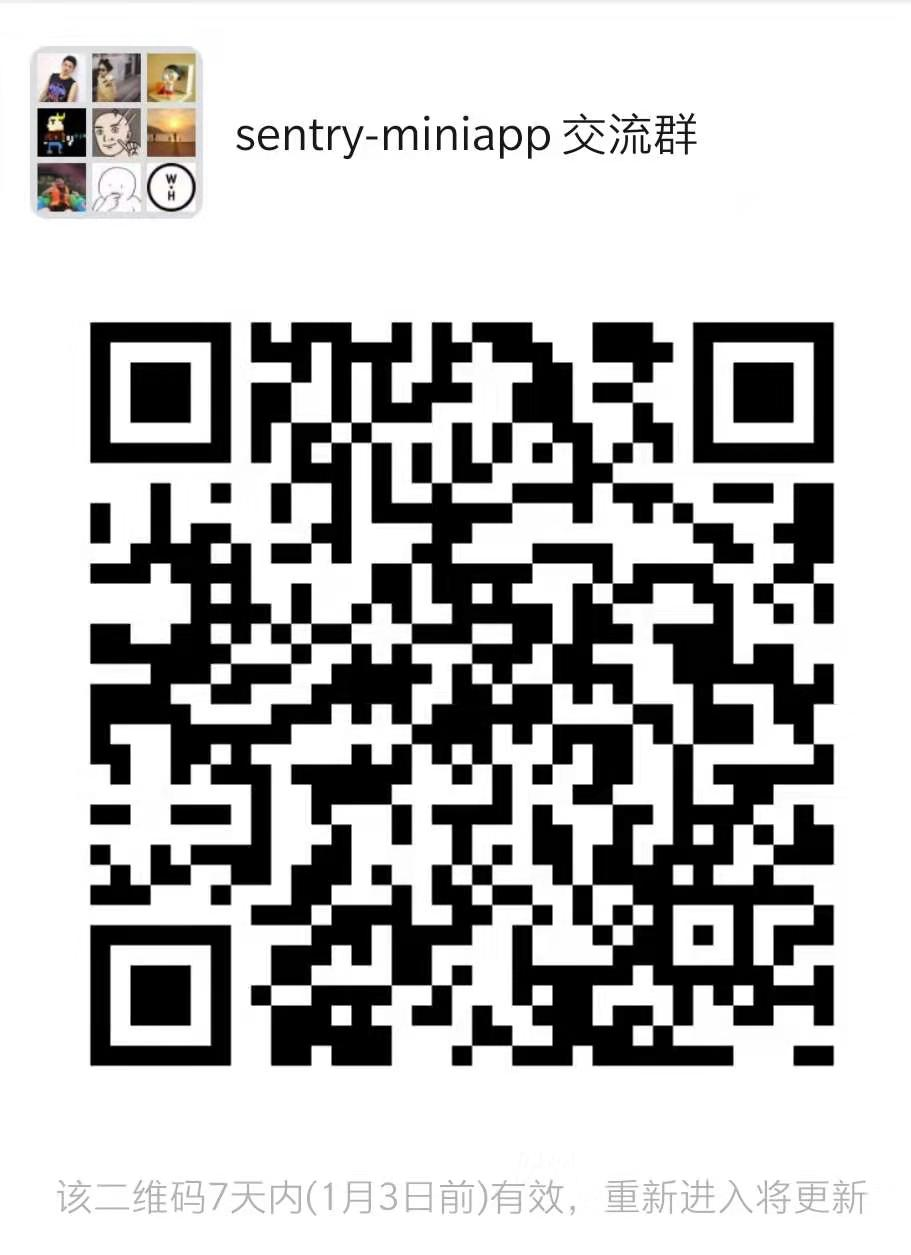
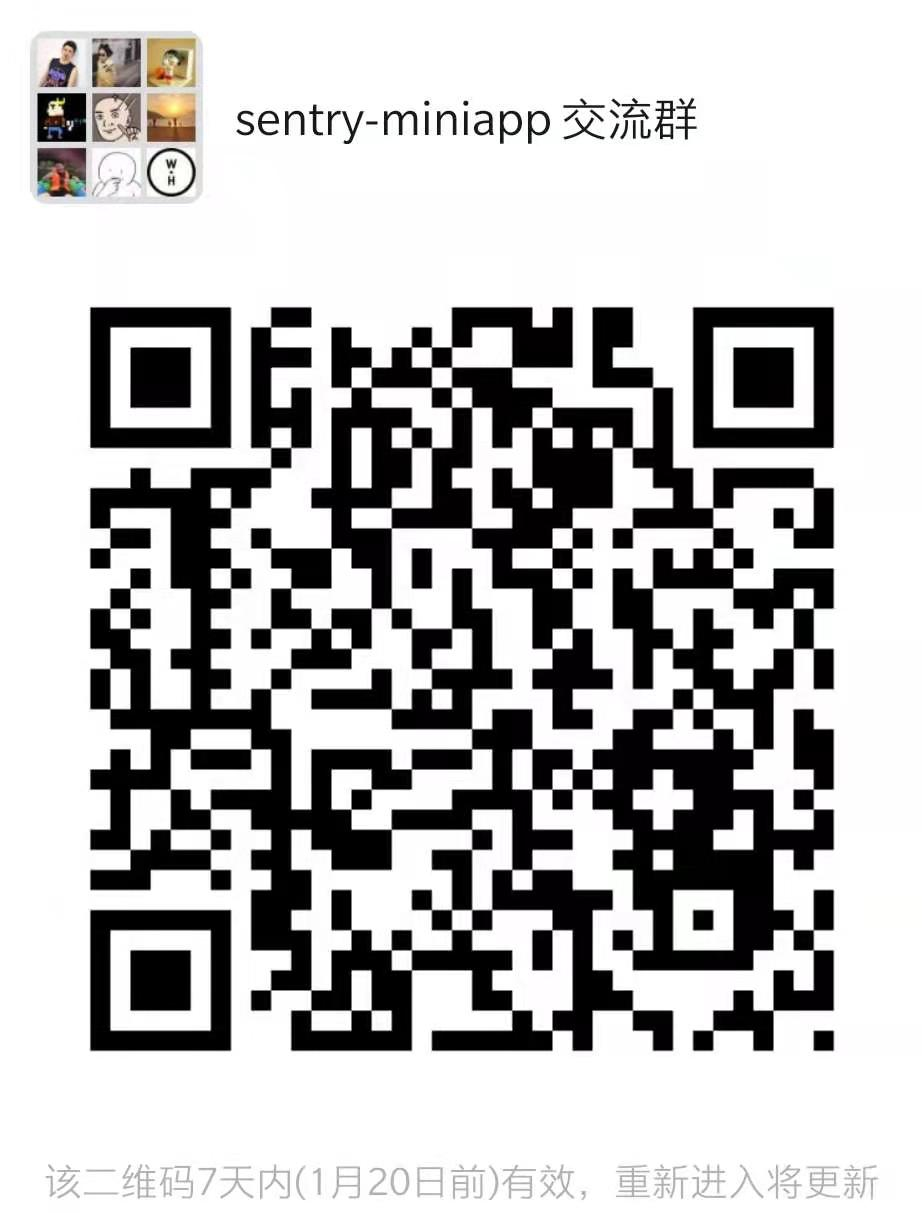
docs: update qrcode

diff --git a/examples/weapp/app.js b/examples/weapp/app.js
@@ -74,10 +74,13 @@ App({
       }
     });
 
+    const systemInfo = wx.getSystemInfoSync();
+    console.log(systemInfo);
+
     // Sentry.captureException(new Error('test'));
 
     // 测试 异常是否可以上报
-    // throw new Error("this is a test error.");
+    // throw new Error("this is a test 4G error.");
     // throw new Error("lalalalalala");
     // myUndefinedFunction();
 

diff --git a/docs/cross-platform.md b/docs/cross-platform.md
@@ -70,5 +70,6 @@ request
 | onPageNotFound     | ✔   | ×        | ×      | ×                |
 | onMemoryWarning    | ✔   | ×        | ✔     | ×                |
 | getCurrentPages    | ✔   | ✔       | ✔     | ✔               |
+| getNetworkType     | √    |          |        |                  |
 
 由于字节跳动小程序和支付宝小程序对调用 API 监听异常的支持度不一致，所以决定对提供了 `xx.onError` 监听异常的平台支持默认监听方式上报异常，其他平台均需要在在实际项目中使用 `App.onError()` 主动上报异常。

diff --git a/README.md b/README.md
@@ -200,3 +200,7 @@ npm publish
 ### 微信交流群
 
 ![微信交流群二维码](docs/sentry-miniapp-qrcode.jpeg)
+
+PS. 由于微信群二维码有时效性限制，想入群的同学还可以加作者微信，由作者邀请入群
+
+![作者微信二维码](docs/zhiyao-qrcode.jpeg)
